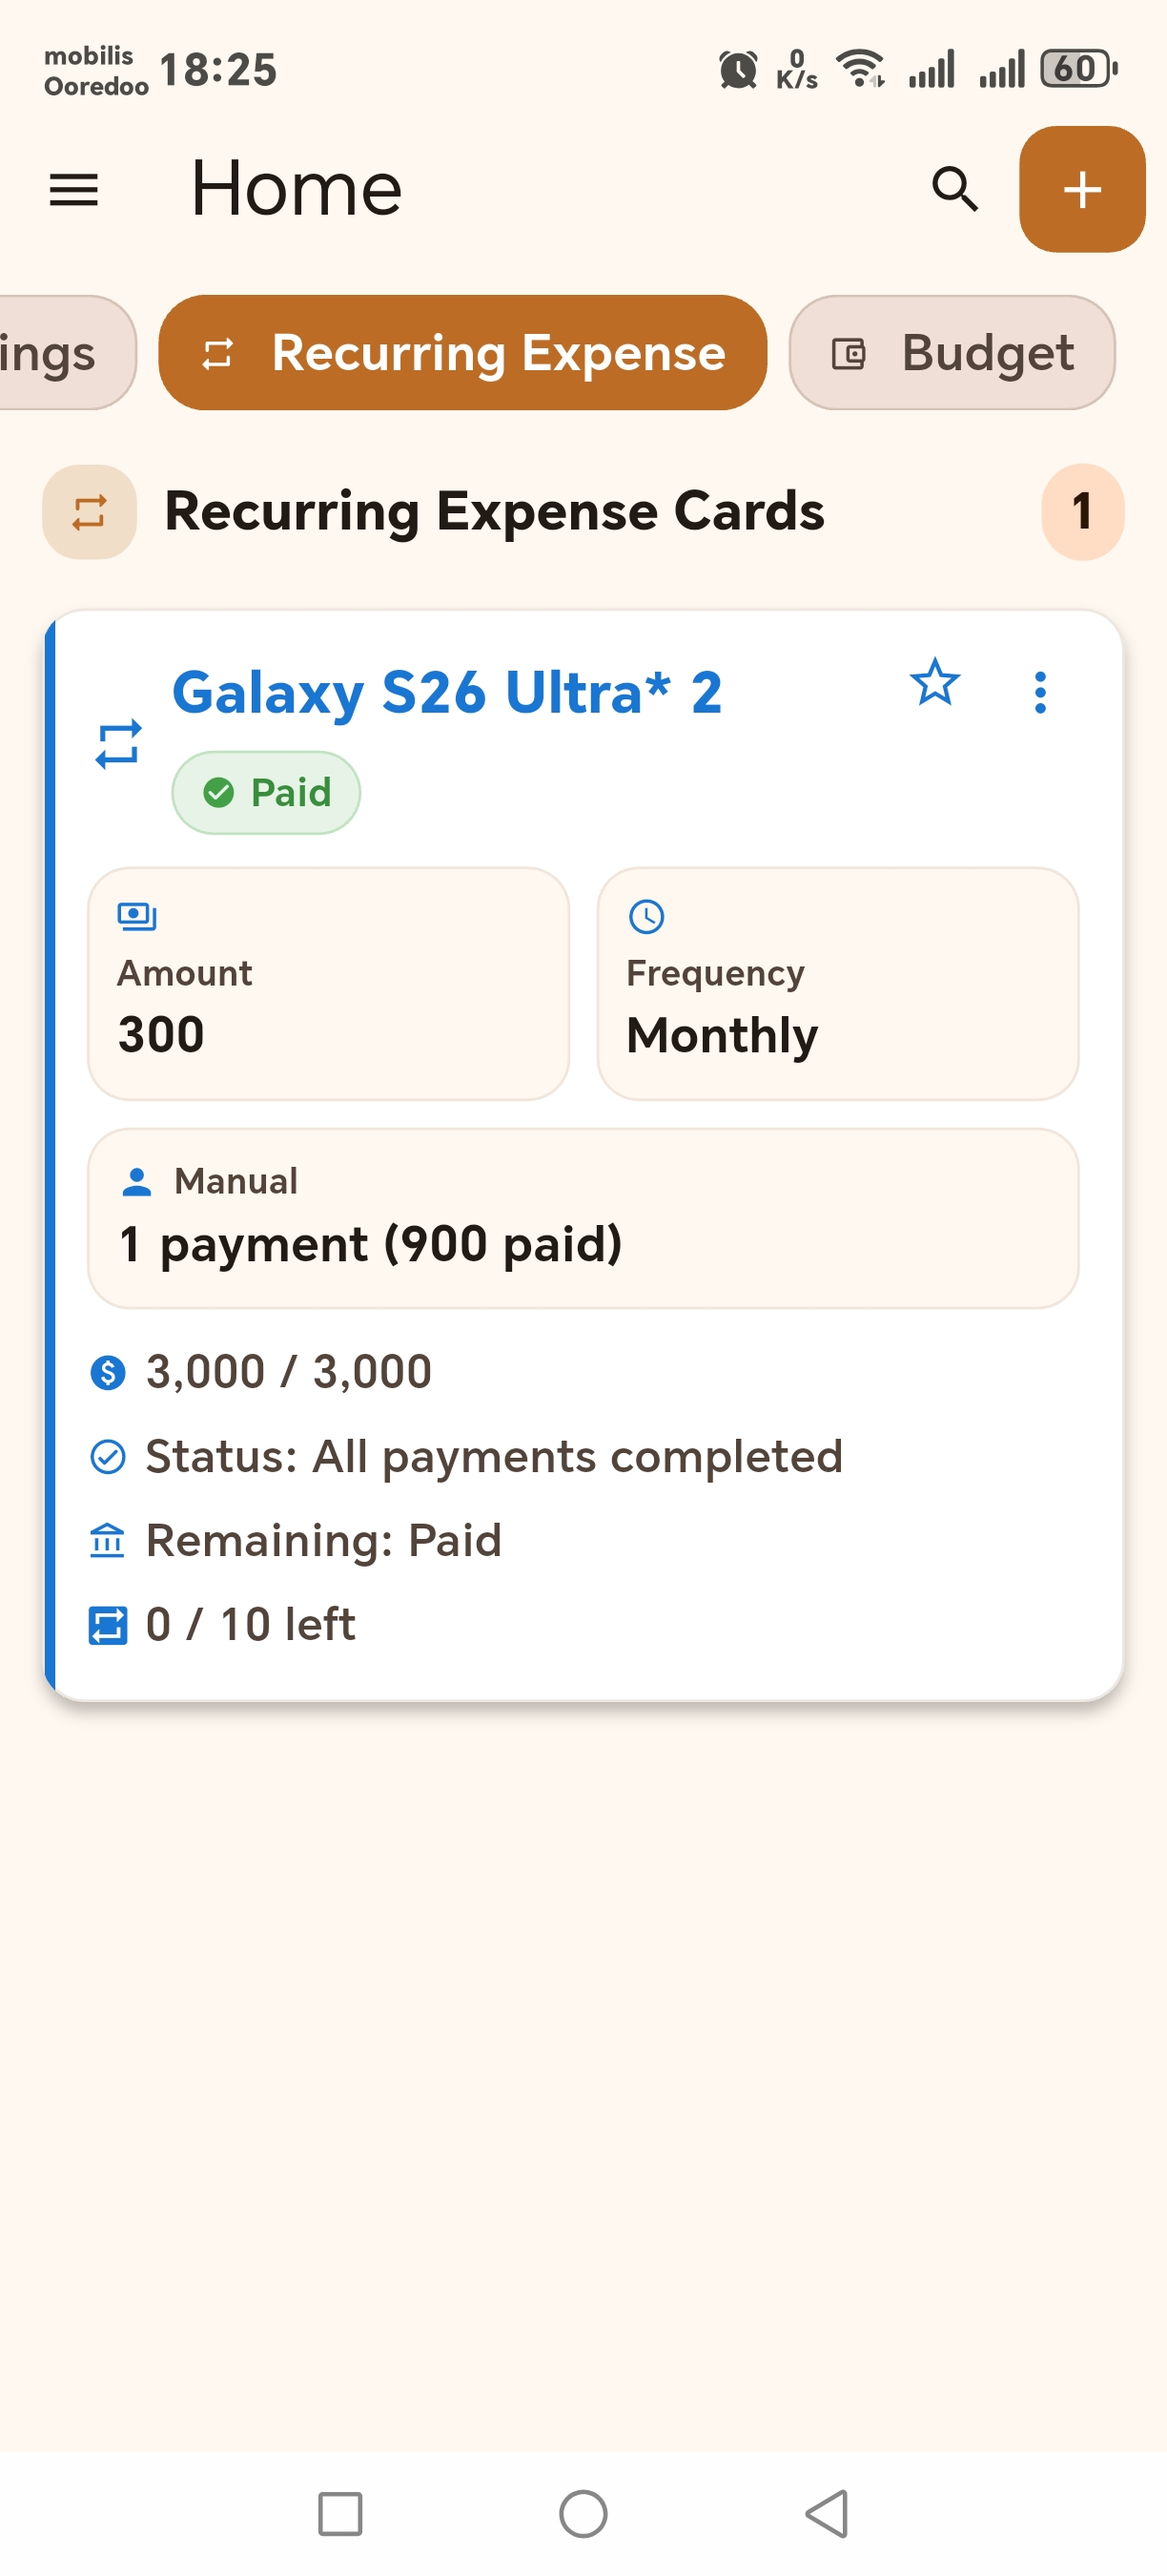
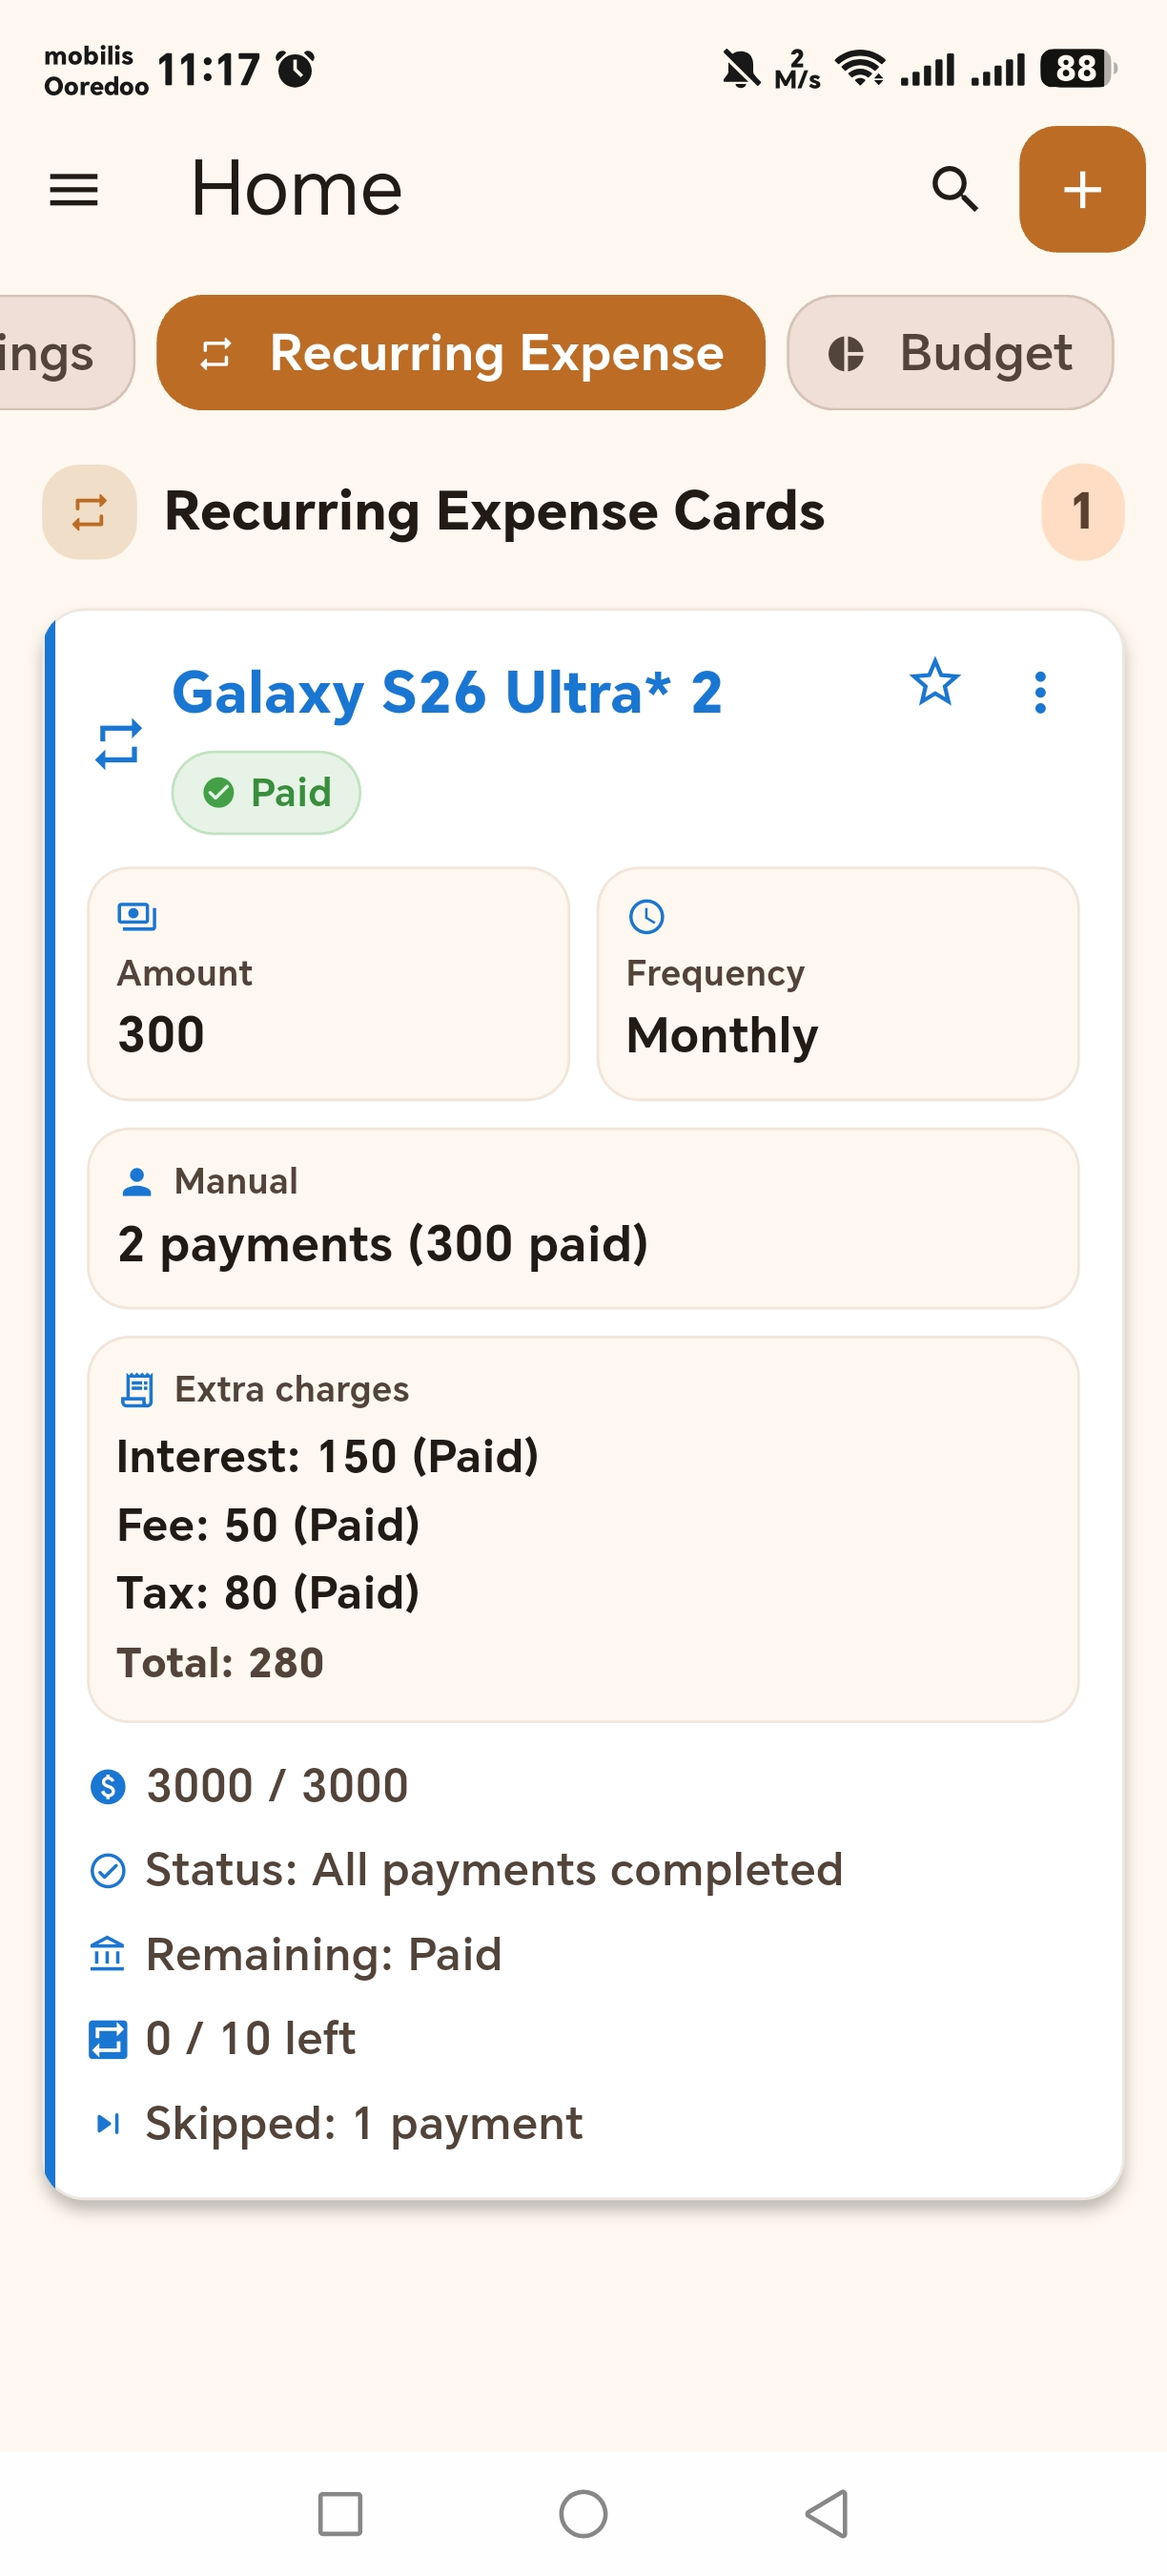
Replace image 08 and add image 12

diff --git a/index.html b/index.html
@@ -1326,6 +1326,14 @@
                     loading="lazy"
                   />
               </figure>
+              <figure class="aspect-[9/16] overflow-hidden rounded-3xl border border-line bg-slate-50 shadow-soft">
+                <img
+                    src="assets/images/12.jpg?v=20260809-1"
+                    alt="CashWise app screenshot 12"
+                    class="h-full w-full object-contain bg-slate-50 p-2"
+                    loading="lazy"
+                  />
+              </figure>
             </div>
           </div>
         </div>
